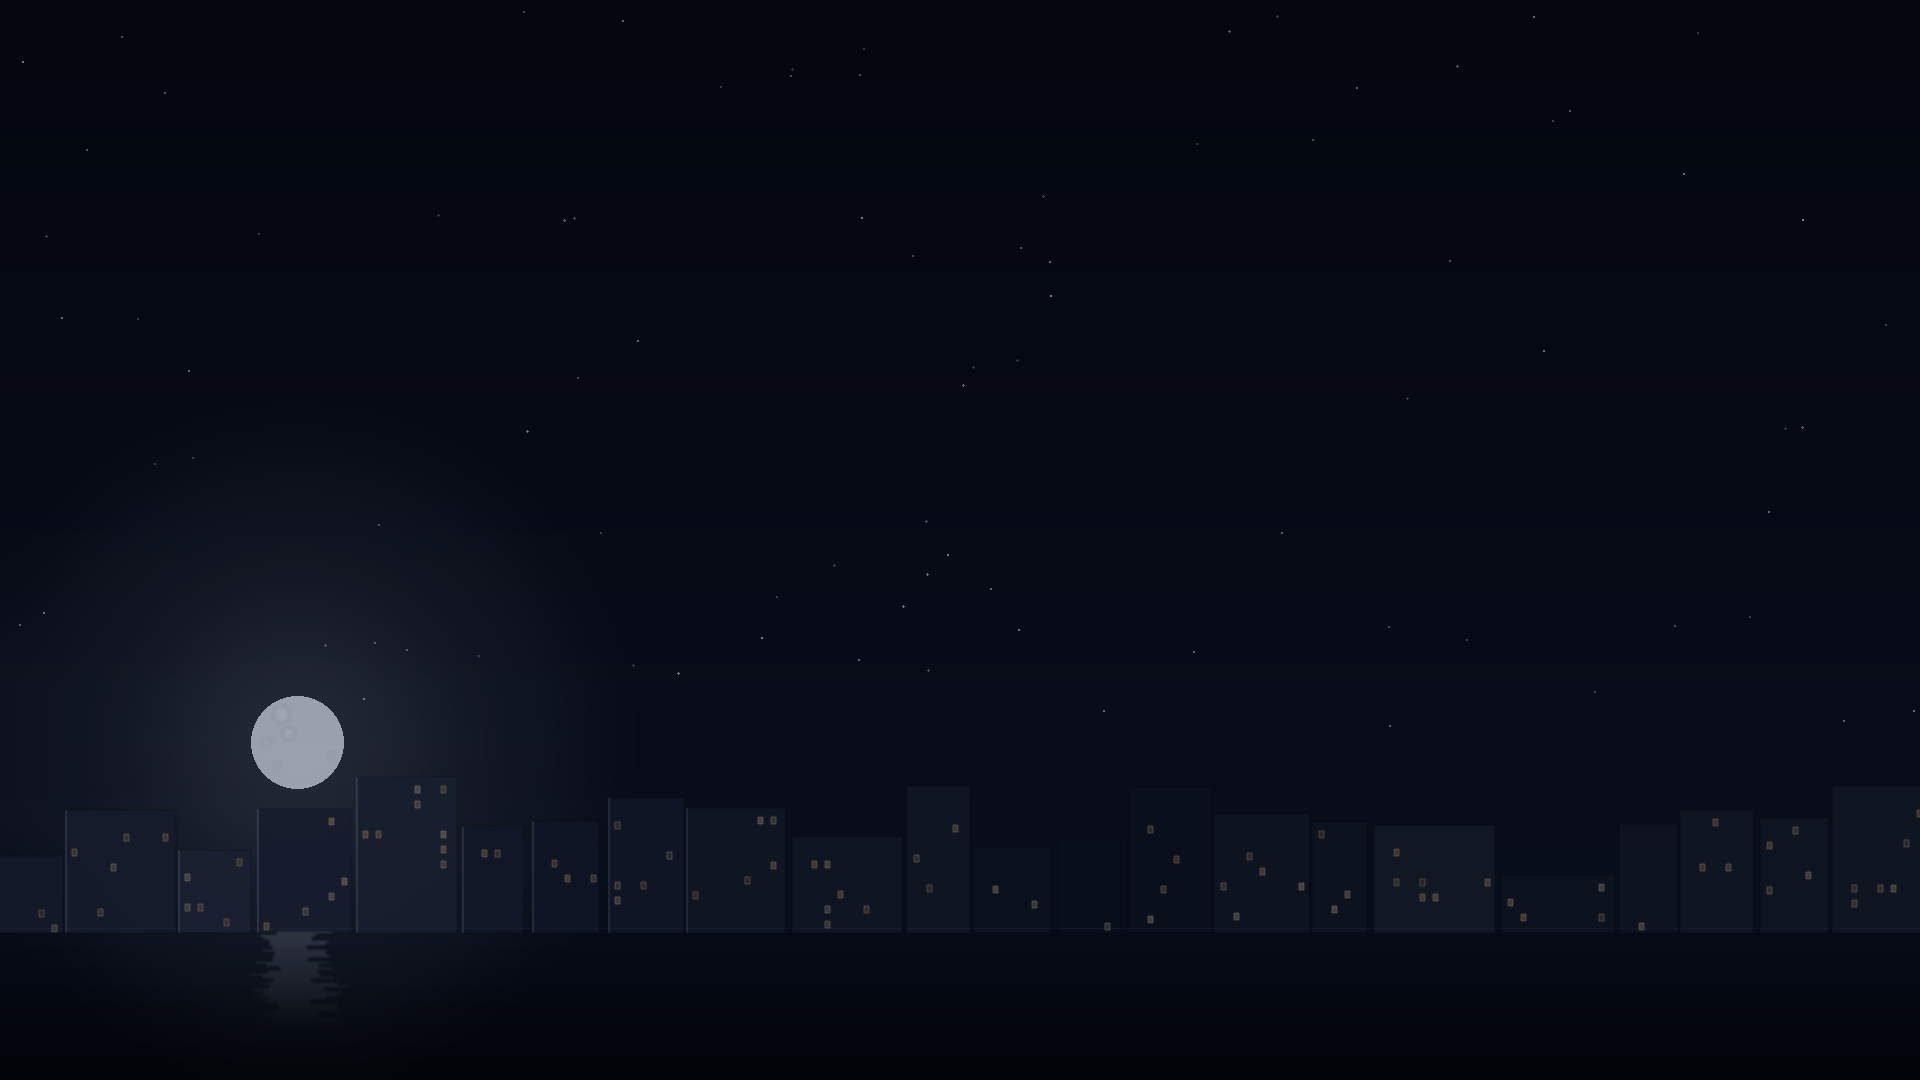
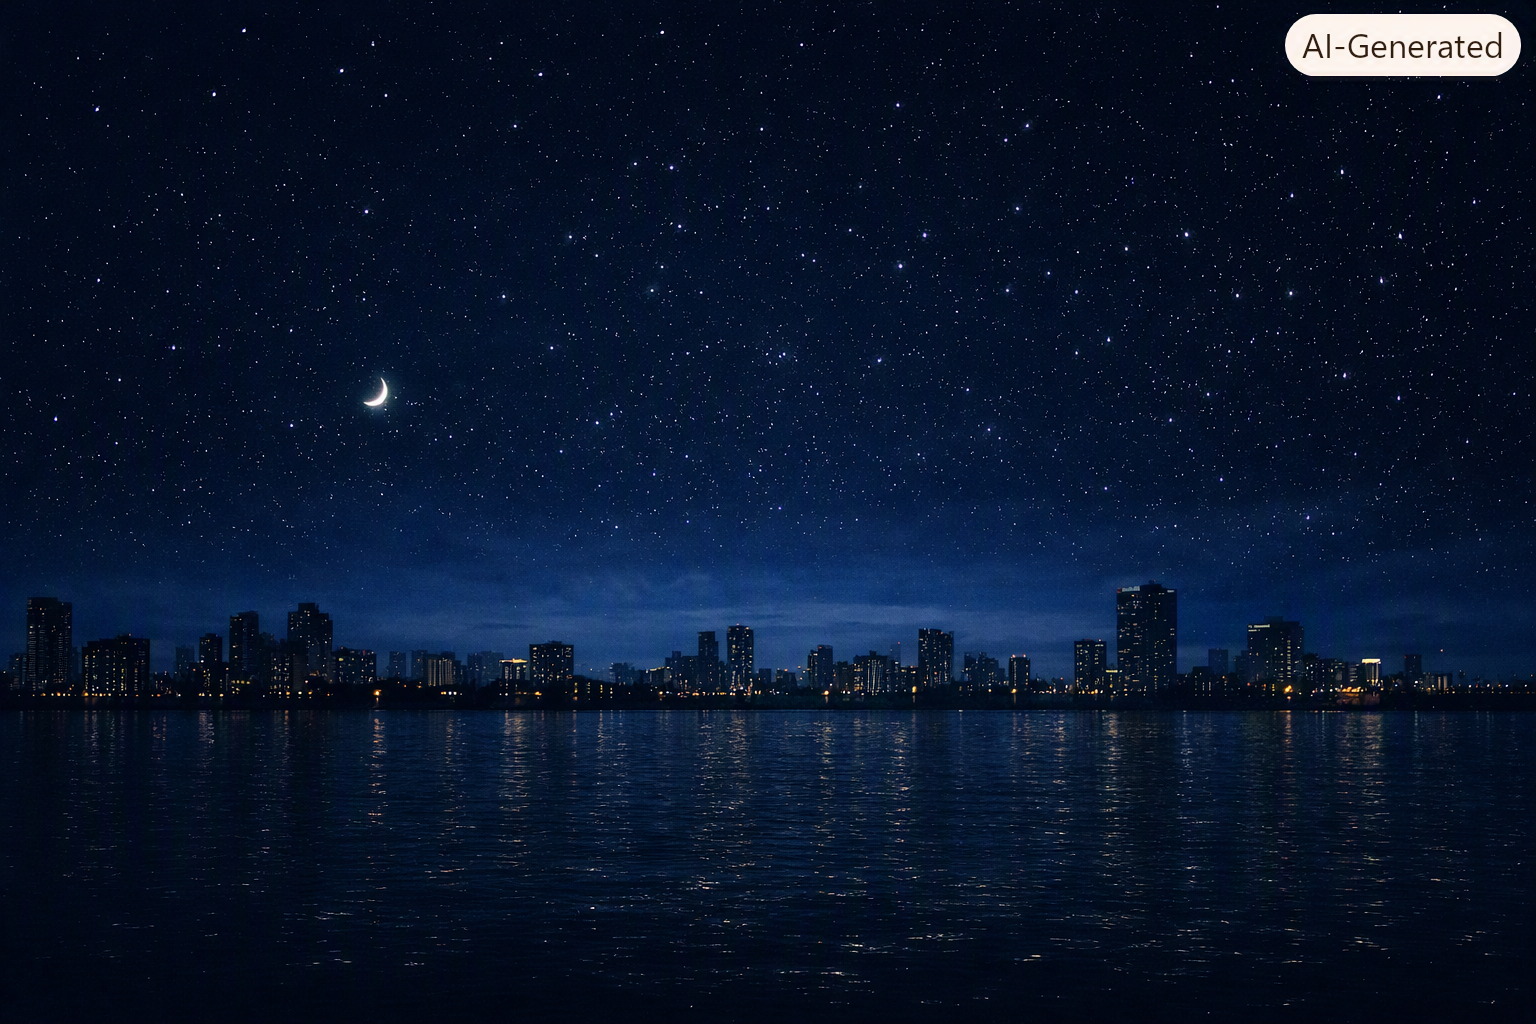
Atualização da skyline e layout responsivo

diff --git a/frontend/src/components/LayoutTop.css b/frontend/src/components/LayoutTop.css
@@ -2,19 +2,19 @@
 .layout-top {
   position: relative;
   width: 100%;
-  height: 520px; /* altura ajustada para skyline + logotipo + vídeo */
+  height: 520px;
   overflow: hidden;
+  background-color: #02030a; /* fundo escuro */
 }
 
-/* Skyline sem zoom, centrada e responsiva */
+/* Skyline limpa e adaptativa */
 .layout-top-bg {
   position: absolute;
   top: 0;
-  left: 50%;
-  transform: translateX(-50%);
-  width: 100%;        /* usa a largura do ecrã */
+  left: 0;
+  width: 100%;
   height: 100%;
-  object-fit: contain; /* NÃO corta a imagem, NÃO faz zoom */
+  object-fit: cover;
   z-index: 1;
 }
 
@@ -37,8 +37,9 @@
   margin: 0;
 }
 
+/* Botão com cor do logotipo */
 .area-pessoal-btn {
-  background-color: #4caf50;
+  background-color: #00A86B;
   color: white;
   border: none;
   padding: 6px 12px;
@@ -47,10 +48,10 @@
   font-size: 12px;
 }
 
-/* Logotipo centrado */
+/* Logotipo centrado no topo */
 .layout-top-logo {
   position: absolute;
-  top: 18%; /* ajustado para aparecer por cima do vídeo */
+  top: 12%;
   left: 50%;
   transform: translateX(-50%);
   text-align: center;
@@ -58,14 +59,14 @@
 }
 
 .logo-img {
-  width: 80px;
+  width: 90px;
   height: auto;
 }
 
 .logo-title {
   color: white;
-  margin: 5px 0 0 0;
-  font-size: 22px;
+  margin: 6px 0 0 0;
+  font-size: 24px;
 }
 
 .logo-sub {
@@ -74,29 +75,69 @@
   font-size: 12px;
 }
 
-/* Vídeo centrado */
+/* Vídeo centrado entre logotipo e prédios */
 .layout-top-video {
   position: absolute;
-  top: 60%;
+  top: 55%;
   left: 50%;
   transform: translate(-50%, -50%);
   z-index: 4;
   width: 50%;
-  max-width: 300px;
+  max-width: 320px;
 }
 
-/* Responsivo */
-@media (max-width: 768px) {
+/* Responsivo para tablets e telemóveis */
+@media (max-width: 1024px) {
   .layout-top {
     height: 480px;
   }
 
-  .layout-top-bg {
-    width: 100%;
+  .logo-img {
+    width: 80px;
+  }
+
+  .logo-title {
+    font-size: 20px;
+  }
+
+  .layout-top-video {
+    width: 60%;
+    max-width: 300px;
+  }
+}
+
+@media (max-width: 768px) {
+  .layout-top {
+    height: 420px;
+  }
+
+  .layout-top-overlay {
+    padding: 8px 12px;
+  }
+
+  .condo-text {
+    font-size: 7px;
+  }
+
+  .area-pessoal-btn {
+    font-size: 10px;
+    padding: 5px 10px;
+  }
+
+  .logo-img {
+    width: 70px;
+  }
+
+  .logo-title {
+    font-size: 18px;
+  }
+
+  .logo-sub {
+    font-size: 11px;
   }
 
   .layout-top-video {
     width: 70%;
-    max-width: 260px;
+    max-width: 280px;
   }
 }

diff --git a/frontend/src/components/LayoutTop.jsx b/frontend/src/components/LayoutTop.jsx
@@ -5,7 +5,7 @@ import VideoFrame from "./VideoFrame";
 export default function LayoutTop() {
   return (
     <div className="layout-top">
-      {/* Skyline */}
+      {/* Skyline limpa */}
       <img
         src="/assets/skyline.png"
         alt="Skyline"
@@ -28,7 +28,7 @@ export default function LayoutTop() {
         <p className="logo-sub">PWA & Automação Ativa</p>
       </div>
 
-      {/* Vídeo centrado */}
+      {/* Vídeo centrado entre logotipo e skyline */}
       <div className="layout-top-video">
         <VideoFrame />
       </div>
